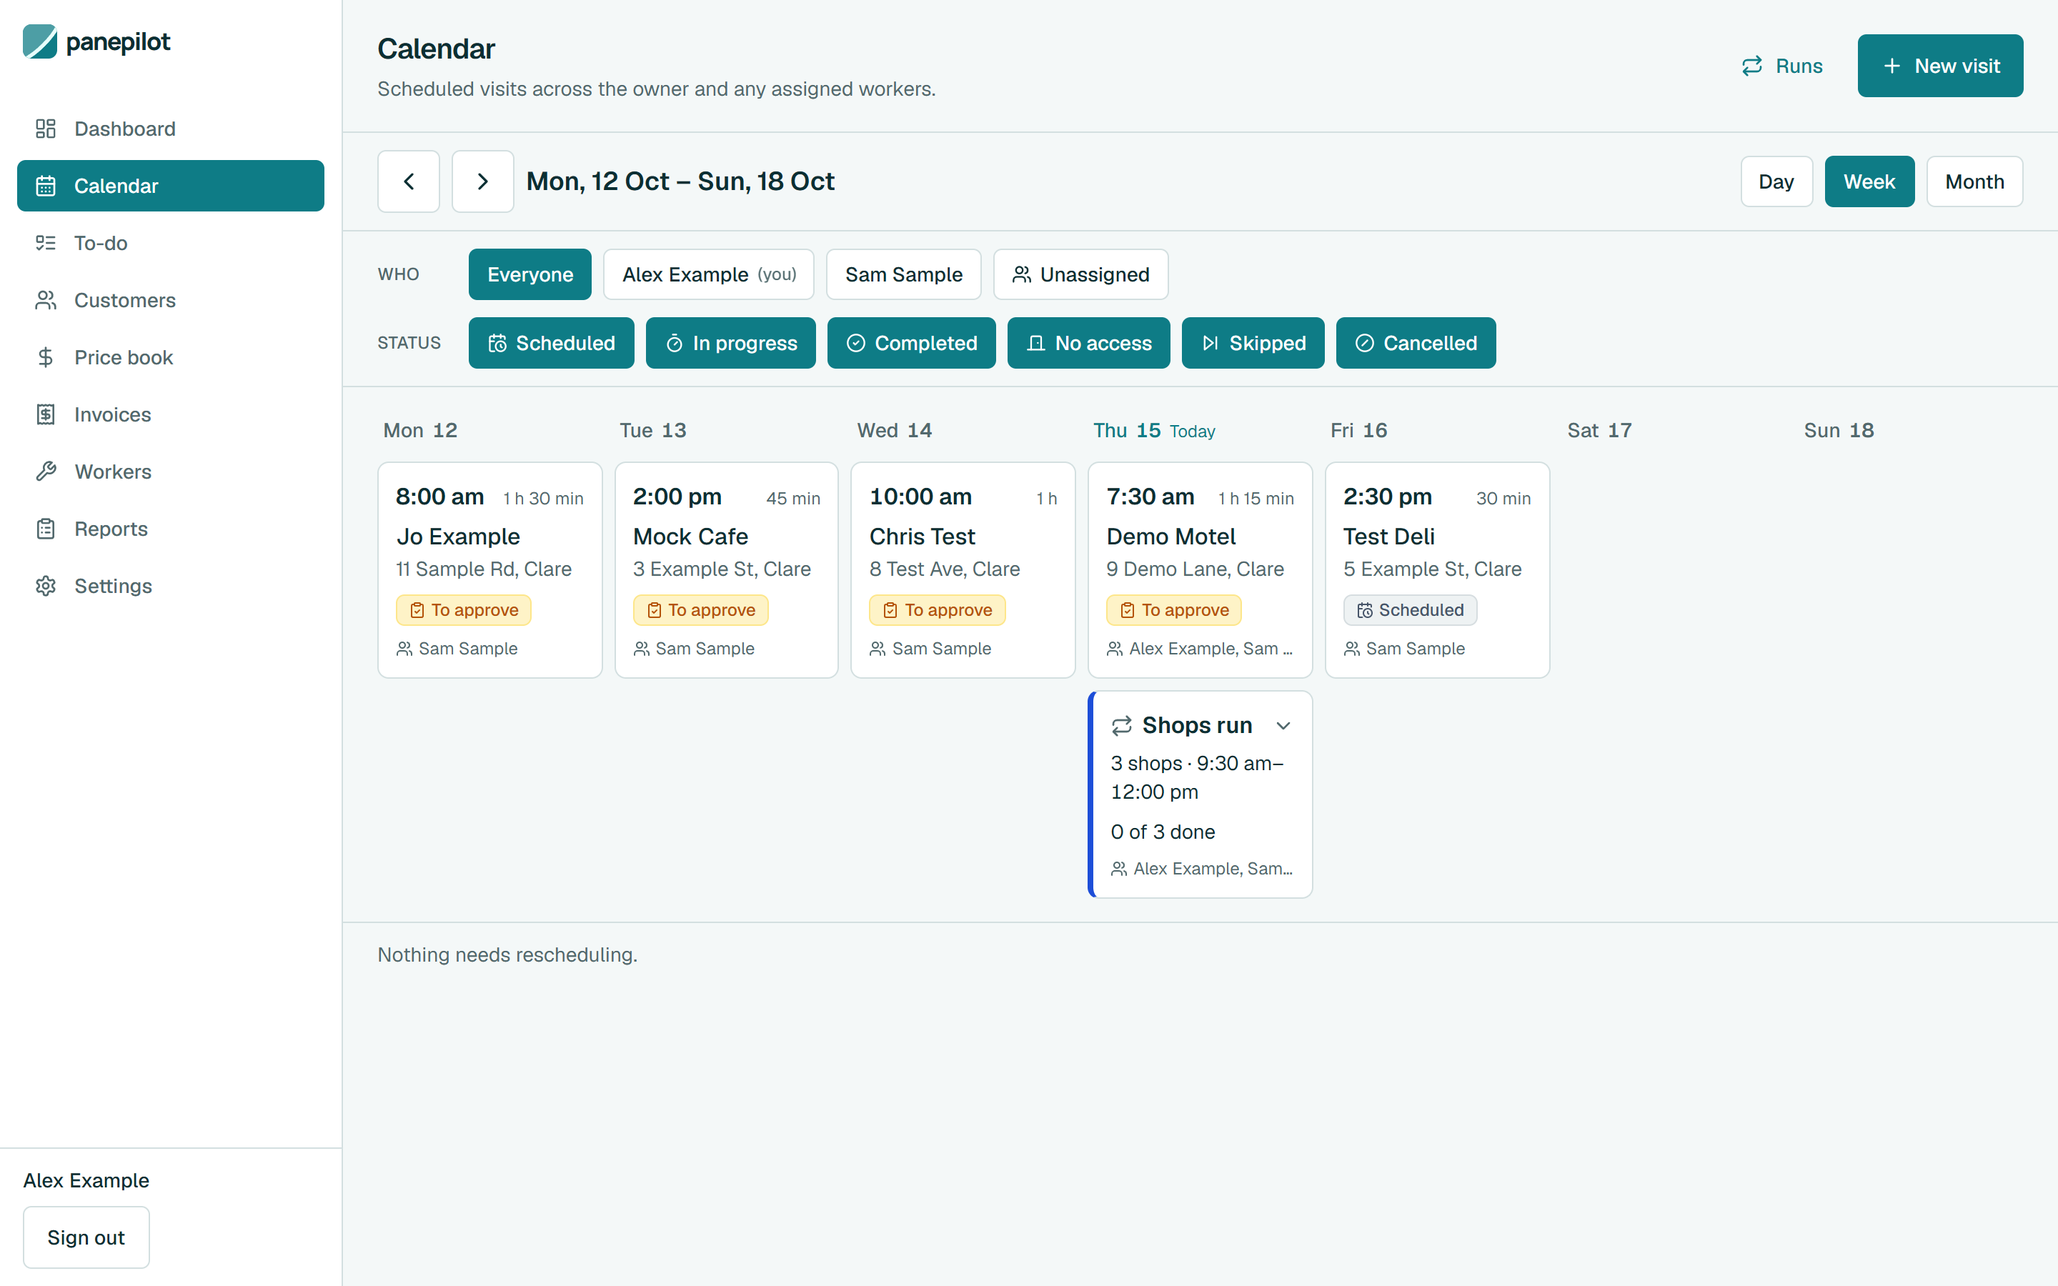
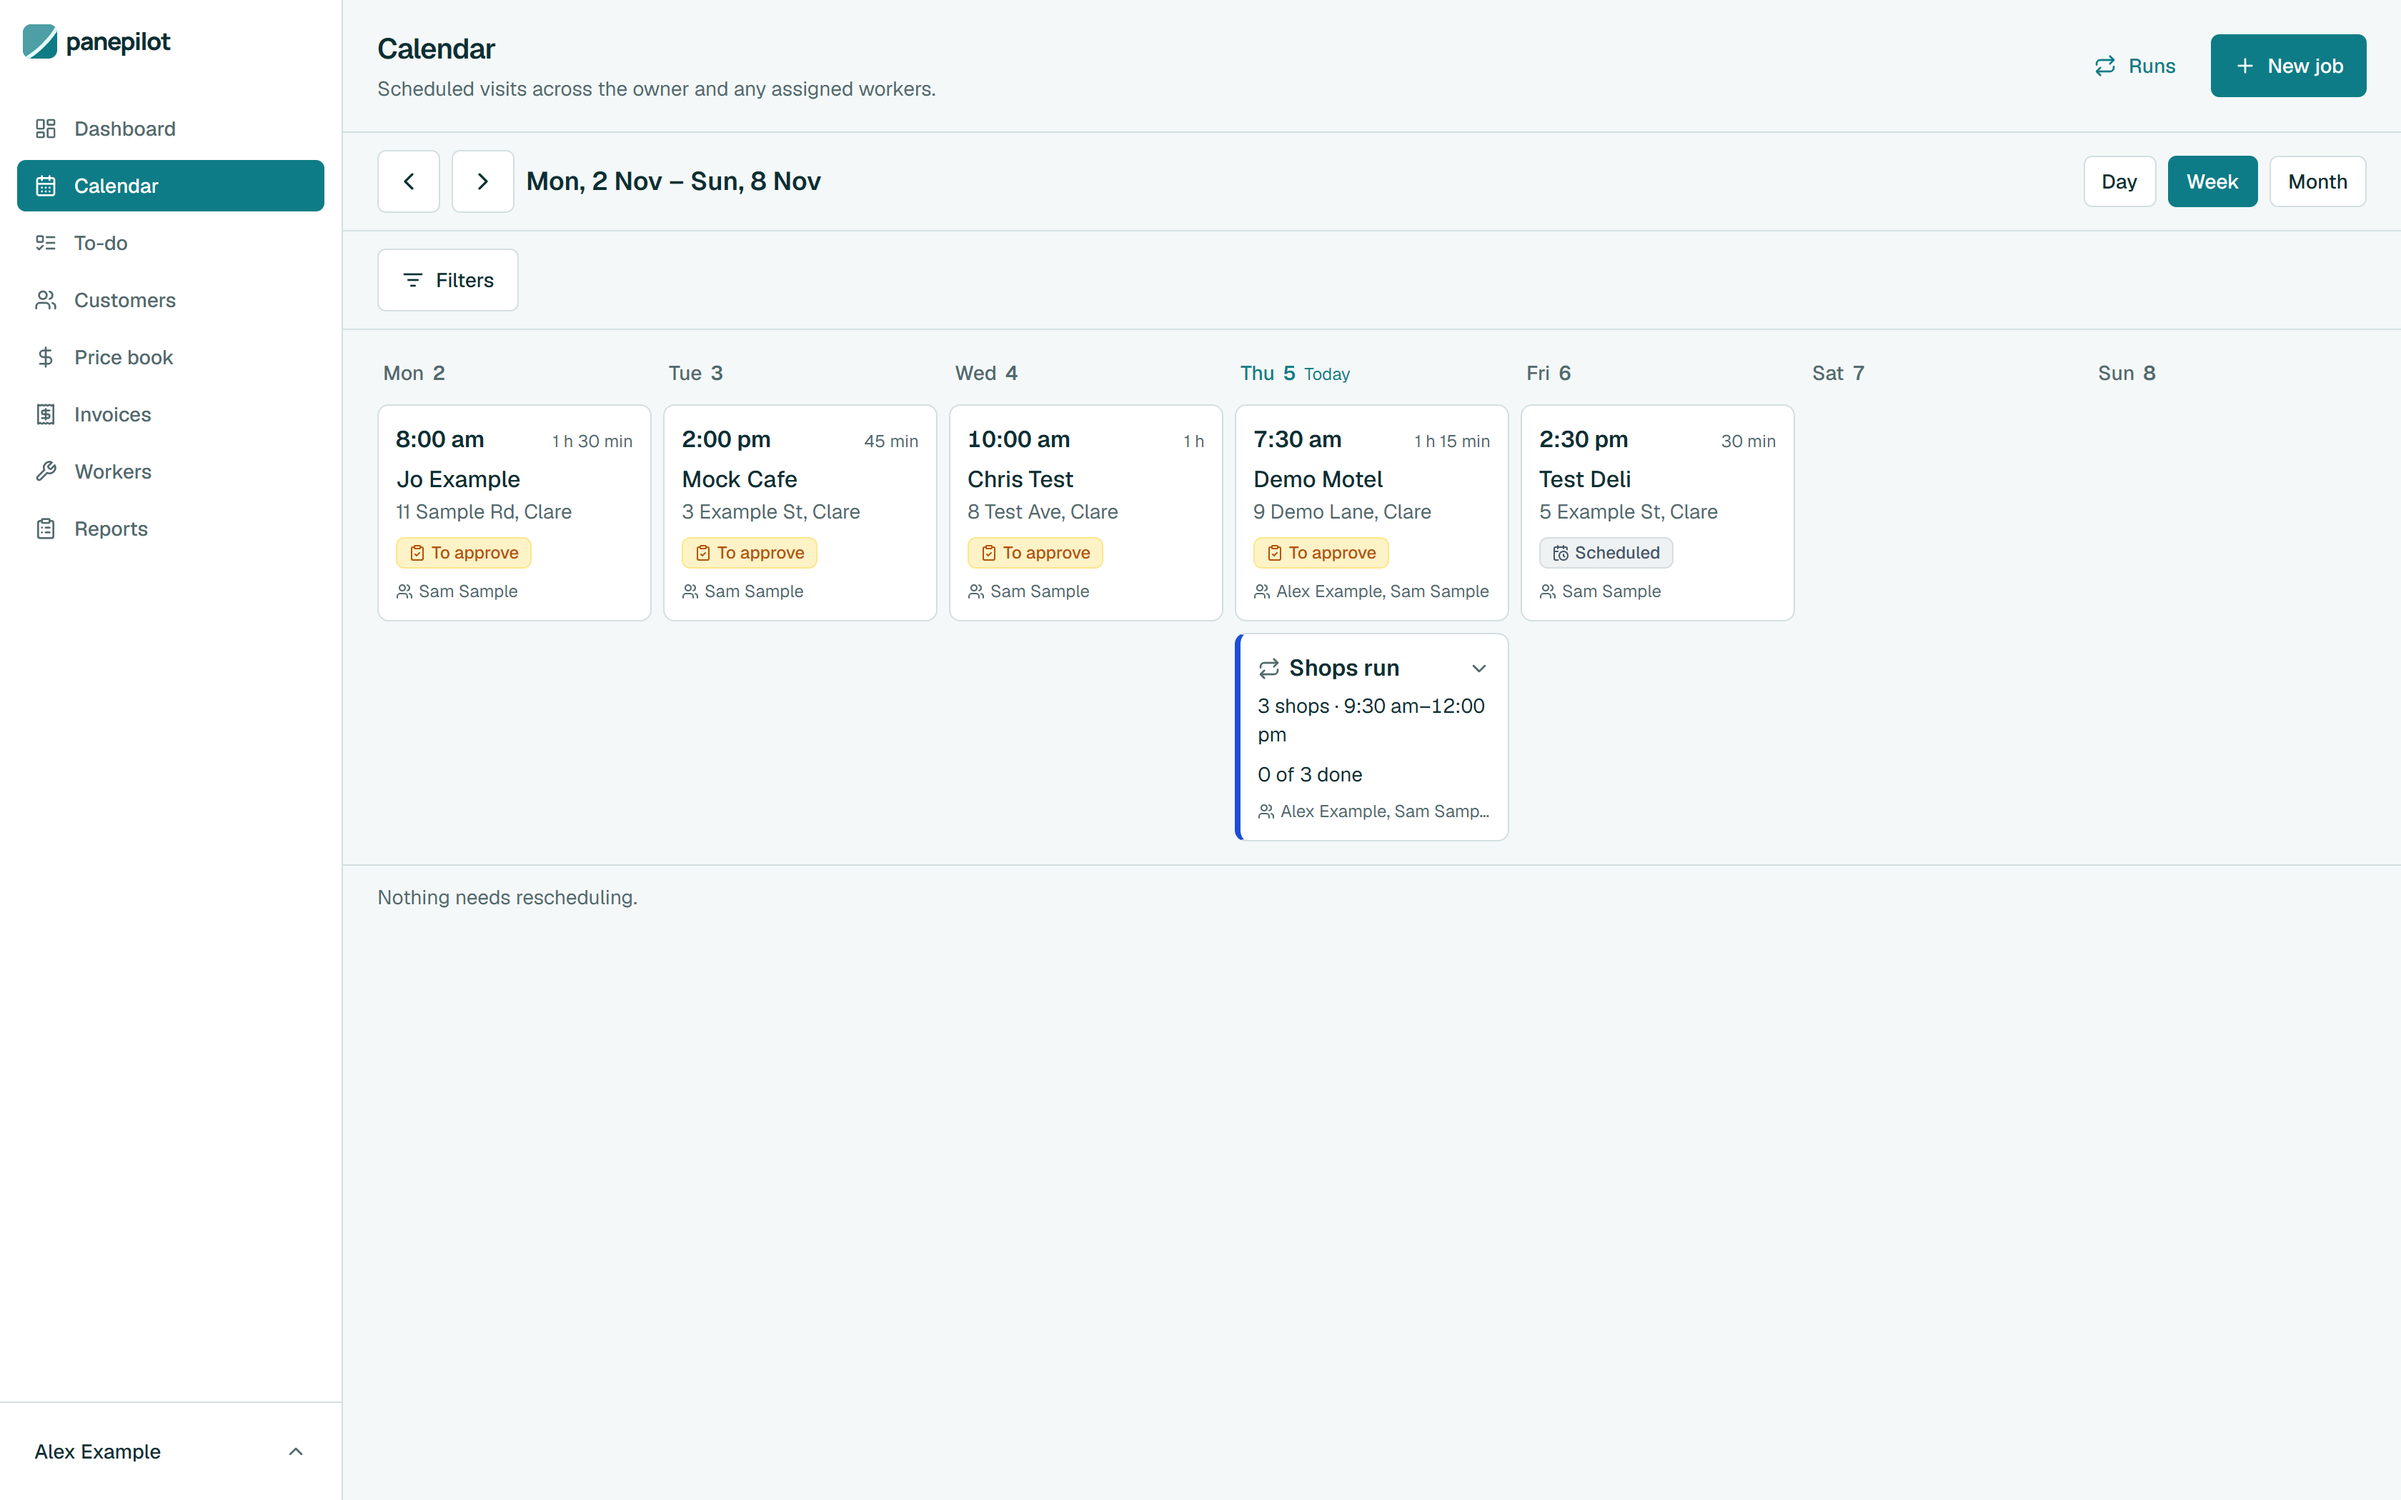
KAN-1133: Show the recaptured calendar, with "New job", in the hero
Copies PanePilot's new calendar-wide.png (KAN-1101, blob 37abc15)
unchanged. It is 3360 x 2100 like the quote and invoice, reads "New job"
and has today's menu. Every value traces to the seed. The size comments
and the design plan's asset line now say 3360 x 2100.

diff --git a/sites/panepilot/design-plan.md b/sites/panepilot/design-plan.md
@@ -54,8 +54,9 @@ plan and a decision record disagree, the record wins.
   and seven real-app screenshots from the invented demo business in
   `C:\dev\panepilot\docs\screenshots\website\` (job card, quote, time card, paid invoice,
   approved time, week calendar, wide owner screen). Each value in them is traced to the seed.
-- **Wide screenshots:** only `calendar-wide.png` exists at 1440 × 900. The hero also needs a
-  quote and a paid invoice captured wide from the demo business (a PanePilot issue).
+- **Wide screenshots:** `calendar-wide.png`, `quote-wide.png` and `invoice-paid-wide.png`, each
+  the whole owner screen at 1680 × 1050 (3360 × 2100 pixels), for the hero's three frames
+  (PanePilot KAN-933 and KAN-1101).
 - **Gaps:** no customer quotes (and there should be none until real businesses say something), no
   screen recordings, no contact address for the site, no link-preview image yet.
 
